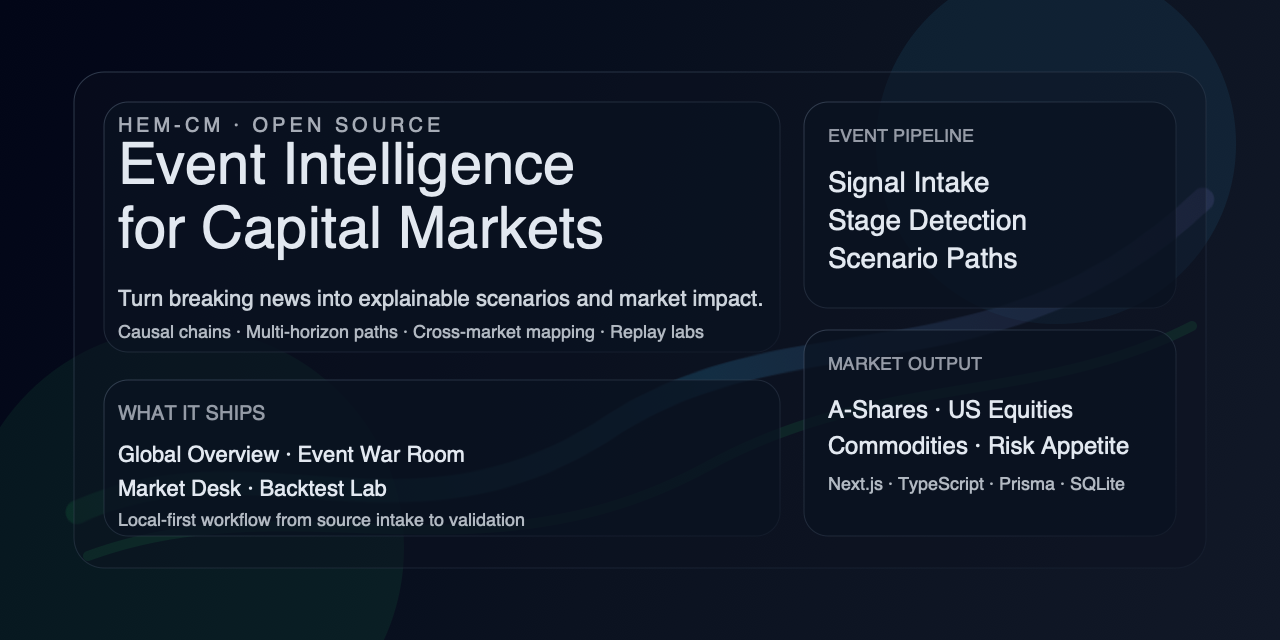
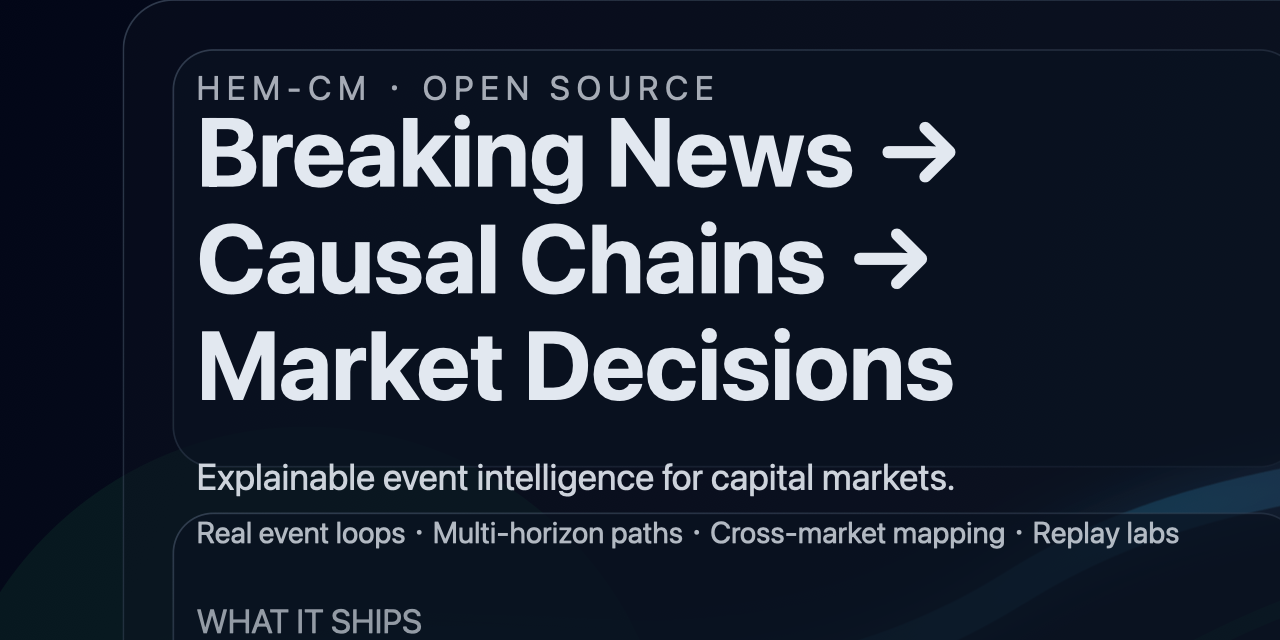
Upgrade GitHub hero copy and social preview assets

diff --git a/docs/GITHUB_ABOUT.md b/docs/GITHUB_ABOUT.md
@@ -2,6 +2,15 @@
 
 ## About
 
+### Copy-paste setup
+
+- Description:
+  `Open-source event intelligence terminal for causal analysis, scenario forecasting, and market mapping.`
+- Website:
+  `https://github.com/beckzou123-lang/hem-cm/releases/latest`
+- Social preview image:
+  `public/social/hem-cm-social.png`
+
 ### Short description
 
 Open-source event intelligence terminal for causal analysis, scenario forecasting, and market mapping.
@@ -34,6 +43,10 @@ If there is no stable hosted product yet, the release page is the best current h
 - sqlite
 - ai-ready
 - open-source
+
+### Copy-paste topic line
+
+`event-intelligence, capital-markets, scenario-analysis, market-mapping, backtesting, causal-engine, nextjs, typescript, prisma, sqlite, ai-ready, open-source`
 
 ### Priority Topics for Discoverability
 
@@ -85,7 +98,20 @@ It combines causal modeling, market mapping, source intake, and replayable backt
 ## Social Preview Direction
 
 - Title: HEM-CM
-- Subtitle: Breaking News → Scenarios → Market Impact
-- Key message: Causal chains · Multi-horizon paths · Cross-market mapping · Replay labs
+- Subtitle: Breaking News → Causal Chains → Market Decisions
+- Key message: Real event loops · Multi-horizon paths · Cross-market mapping · Replay labs
 - Preferred visual base: dark terminal aesthetic with dashboard cards and flow line accents
 - Ready-to-upload assets: `public/social/hem-cm-social.png` and `public/social/hem-cm-social.svg`
+
+## Recommended Pinned Issue
+
+### Title
+
+Wanted: source adapters, flagship event cases, and mapping feedback
+
+### Body direction
+
+- Ask contributors which public feeds should be connected first
+- Ask which real event families should be modeled next
+- Ask where the current path forecast or market mapping feels least convincing
+- Link to beginner-scoped issues for contributors who want to help immediately

diff --git a/README.md b/README.md
@@ -1,12 +1,29 @@
 # HEM-CM
 
-[![License: MIT](https://img.shields.io/badge/License-MIT-green.svg)](./LICENSE)
-[![CI](https://github.com/beckzou123-lang/hem-cm/actions/workflows/ci.yml/badge.svg)](https://github.com/beckzou123-lang/hem-cm/actions/workflows/ci.yml)
-[![Issues](https://img.shields.io/github/issues/beckzou123-lang/hem-cm)](https://github.com/beckzou123-lang/hem-cm/issues)
+<p align="center">
+  <a href="./LICENSE"><img src="https://img.shields.io/badge/License-MIT-green.svg" alt="MIT License"></a>
+  <a href="https://github.com/beckzou123-lang/hem-cm/actions/workflows/ci.yml"><img src="https://github.com/beckzou123-lang/hem-cm/actions/workflows/ci.yml/badge.svg" alt="CI"></a>
+  <a href="https://github.com/beckzou123-lang/hem-cm/issues"><img src="https://img.shields.io/github/issues/beckzou123-lang/hem-cm" alt="Open issues"></a>
+</p>
 
-Open-source event intelligence terminal for capital markets.
+> Turn hot events into explainable market decision chains.
 
-Turn breaking news into explainable causal chains, scenario paths, cross-market impact maps, and replayable research workflows.
+Open-source event intelligence terminal for causal analysis, scenario forecasting, market mapping, and replayable validation workflows.
+
+**What makes this repo worth a star**
+
+- Real seeded event loops, not static mock screens
+- Explainable causal chains, not black-box outputs
+- Multi-horizon paths, market transmission, and replay in one product
+- Local-first setup that becomes visible in minutes
+
+**Best first click**
+
+- [3-minute first win](#3-minute-first-win)
+- [Global Overview](#global-overview)
+- [Event War Room](#event-war-room)
+- [Market Desk](#market-desk)
+- [Backtest Lab](#backtest-lab)
 
 ![HEM-CM Global Overview](./assets/screenshots/README-global-overview.png)
 
